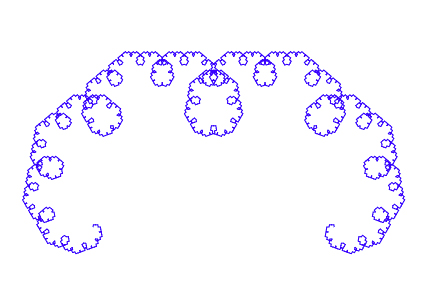
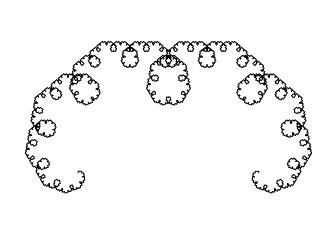
U6L2 - Lévy C-curve image edits

Changed region(s): [[0.0298, 0.1483, 0.9524, 0.8305]]

diff --git a/cur/programming/6-recursion/2-projects/3-c-curve.html b/cur/programming/6-recursion/2-projects/3-c-curve.html
@@ -11,17 +11,18 @@
         <div class="sidenote">Lévy is pronounced LEH-vee.</div>
         <div class="todo">
             <ul>
-                <li>GH Feedback 8/4/15: I like this program. I needed Brian Harvey's help to understand the fractal and thus be able to write this program. I know it sounds silly, but the colors threw me off! The base level was red and the next level is a red and blue corner. The next level should be the red and blue corner and then ANOTHER red and blue corner. The coloring messed with my noggin.</li>
-                <li>I still need to rebuild these images, but I'm not going to change them fundamentally since we adapted the coloring on the previous page to match this... --MF</li>
+                <li>GH Feedback 8/4/15: I like this program. I needed Brian Harvey's help to understand the fractal and thus be able to write this program. I know it sounds silly, but the colors threw me off! The base level was red and the next level is a red and blue corner. The next level should be the red and blue corner and then ANOTHER red and blue corner. The coloring messed with my noggin.
+                <ul><li>I'm leaving this comment in case we get others like it, but the solution strategy here was <em>not</em> to change the coloring on this page, but to change the coloring on the <em>previous</em> page to match/preview this. That is, I thought this was the best coloring scheme, and that this person was having trouble because the coloring scheme on the previous page <em>appeared</em> to be different. --MF</li></ul>
+                </li>
             </ul>
         </div>
         <p>
             Another well-known recursive shape is the Lévy C-curve. As in the snowflake algorithm, the base case is that the sprite draws a single line segment, starting on the left, going to the right, and pointing in the same direction in the beginning and at the end (to the right).<br />
-            <img class="indent noshadow" src="/bjc-r/img/6-recursion/c-curve-level0.gif" alt="Lévy C-Curve Level 1" title="Lévy C-Curve Level 1" />
+            <img class="indent noshadow" src="/bjc-r/img/6-recursion/c-curve-level01.jpg" alt="Lévy C-Curve Level 1" title="Lévy C-Curve Level 1" />
         </p>
         <p>
         	In the second level, the sprite repeats the previous level twice&mdash;first turning 45&deg; left, then doing the previous level, then turning 90&deg; right, then doing the previous level again, and finally turning 45&deg; left to face the same direction again. You'll have to think about how much smaller the <var>size</var> input should be in the recursive calls.<br />
-			<img class="indent noshadow" src="/bjc-r/img/6-recursion/c-curve-level1.gif" alt="Lévy C-Curve Level 2" title="Lévy C-Curve Level 2" />
+			<img class="indent noshadow" src="/bjc-r/img/6-recursion/c-curve-level02.jpg" alt="Lévy C-Curve Level 2" title="Lévy C-Curve Level 2" />
         </p>
         <div class="forYouToDo" id="first">
             <ol>
@@ -31,7 +32,7 @@
         </div>
         <p>
         	In the third level, the sprite repeats the previous level twice, drawing 4 smaller lines. Notice that the 2nd and 3rd lines are in the same direction (they are <em>collinear</em>) so they appear to be one connected longer line.<br />
-            <img class="indent noshadow" src="/bjc-r/img/6-recursion/c-curve-level2.gif" alt="Lévy C-Curve Level 3" title="Lévy C-Curve Level 3" />
+            <img class="indent noshadow" src="/bjc-r/img/6-recursion/c-curve-level03.jpg" alt="Lévy C-Curve Level 3" title="Lévy C-Curve Level 3" />
         </p>
         <div class="forYouToDo">
             <ol start="2">
@@ -52,15 +53,15 @@
             </ol>
         </div>
 		<p>This simple algorithm build up a complicated design at higher levels:<br />
-        	<img class="indent noshadow" src="/bjc-r/img/6-recursion/c-curve-level3.gif" alt="Lévy C-Curve Level 4" title="Lévy C-Curve Level 4" /><br />
-            <img class="indent noshadow" src="/bjc-r/img/6-recursion/c-curve-level4.gif" alt="Lévy C-Curve Level 5" title="Lévy C-Curve Level 5" /><br />
-            <img class="indent noshadow" src="/bjc-r/img/6-recursion/c-curve-level5.gif" alt="Lévy C-Curve Level 6" title="Lévy C-Curve Level 6" /><br />
-            <img class="indent noshadow" src="/bjc-r/img/6-recursion/c-curve-level6.gif" alt="Lévy C-Curve Level 7" title="Lévy C-Curve Level 7" /><br />
-            <img class="indent noshadow" src="/bjc-r/img/6-recursion/c-curve-level7.gif" alt="Lévy C-Curve Level 8" title="Lévy C-Curve Level 8" /><br />
-            <img class="indent noshadow" src="/bjc-r/img/6-recursion/c-curve-level8.gif" alt="Lévy C-Curve Level 9" title="Lévy C-Curve Level 9" /><br />
-            <img class="indent noshadow" src="/bjc-r/img/6-recursion/c-curve-level9.gif" alt="Lévy C-Curve Level 10" title="Lévy C-Curve Level 10" /><br />
-            <img class="indent noshadow" src="/bjc-r/img/6-recursion/c-curve-level10.gif" alt="Lévy C-Curve Level 11" title="Lévy C-Curve Level 11" /><br />
-            <img class="indent noshadow" src="/bjc-r/img/6-recursion/c-curve-level11.gif" alt="Lévy C-Curve Level 12" title="Lévy C-Curve Level 12" />
+        	<img class="indent noshadow" src="/bjc-r/img/6-recursion/c-curve-level04.jpg" alt="Lévy C-Curve Level 4" title="Lévy C-Curve Level 4" /><br />
+            <img class="indent noshadow" src="/bjc-r/img/6-recursion/c-curve-level05.jpg" alt="Lévy C-Curve Level 5" title="Lévy C-Curve Level 5" /><br />
+            <img class="indent noshadow" src="/bjc-r/img/6-recursion/c-curve-level06.jpg" alt="Lévy C-Curve Level 6" title="Lévy C-Curve Level 6" /><br />
+            <img class="indent noshadow" src="/bjc-r/img/6-recursion/c-curve-level07.jpg" alt="Lévy C-Curve Level 7" title="Lévy C-Curve Level 7" /><br />
+            <img class="indent noshadow" src="/bjc-r/img/6-recursion/c-curve-level08.jpg" alt="Lévy C-Curve Level 8" title="Lévy C-Curve Level 8" /><br />
+            <img class="indent noshadow" src="/bjc-r/img/6-recursion/c-curve-level09.jpg" alt="Lévy C-Curve Level 9" title="Lévy C-Curve Level 9" /><br />
+            <img class="indent noshadow" src="/bjc-r/img/6-recursion/c-curve-level10.jpg" alt="Lévy C-Curve Level 10" title="Lévy C-Curve Level 10" /><br />
+            <img class="indent noshadow" src="/bjc-r/img/6-recursion/c-curve-level11.jpg" alt="Lévy C-Curve Level 11" title="Lévy C-Curve Level 11" /><br />
+            <img class="indent noshadow" src="/bjc-r/img/6-recursion/c-curve-level12.jpg" alt="Lévy C-Curve Level 12" title="Lévy C-Curve Level 12" />
         </p>
         <div class="forYouToDo">
             <ol start="3">
@@ -70,8 +71,8 @@
         <div class="ifTime">
             <ol start="4">
                 <li>Create some variations on the Lévy C-Curve, like these:<br />
-                <img class="indent noshadow" src="/bjc-r/img/6-recursion/c-curve-variation1.jpg" alt="Lévy C-Curve-like drawing" title="Lévy C-Curve-like drawing" /><br />
-                <img class="indent noshadow" src="/bjc-r/img/6-recursion/c-curve-variation2.jpg" alt="Lévy C-Curve-like drawing" title="Lévy C-Curve-like drawing" /><br />
+                <img class="indent noshadow" src="/bjc-r/img/6-recursion/c-curve-variation1.jpg" alt="Lévy C-Curve-like drawing" title="Lévy C-Curve-like drawing" />
+                <img class="indent noshadow" src="/bjc-r/img/6-recursion/c-curve-variation2.jpg" alt="Lévy C-Curve-like drawing" title="Lévy C-Curve-like drawing" />
                 <img class="indent noshadow" src="/bjc-r/img/6-recursion/c-curve-variation3.jpg" alt="Lévy C-Curve-like drawing" title="Lévy C-Curve-like drawing" />
                 </li>
             </ol>
